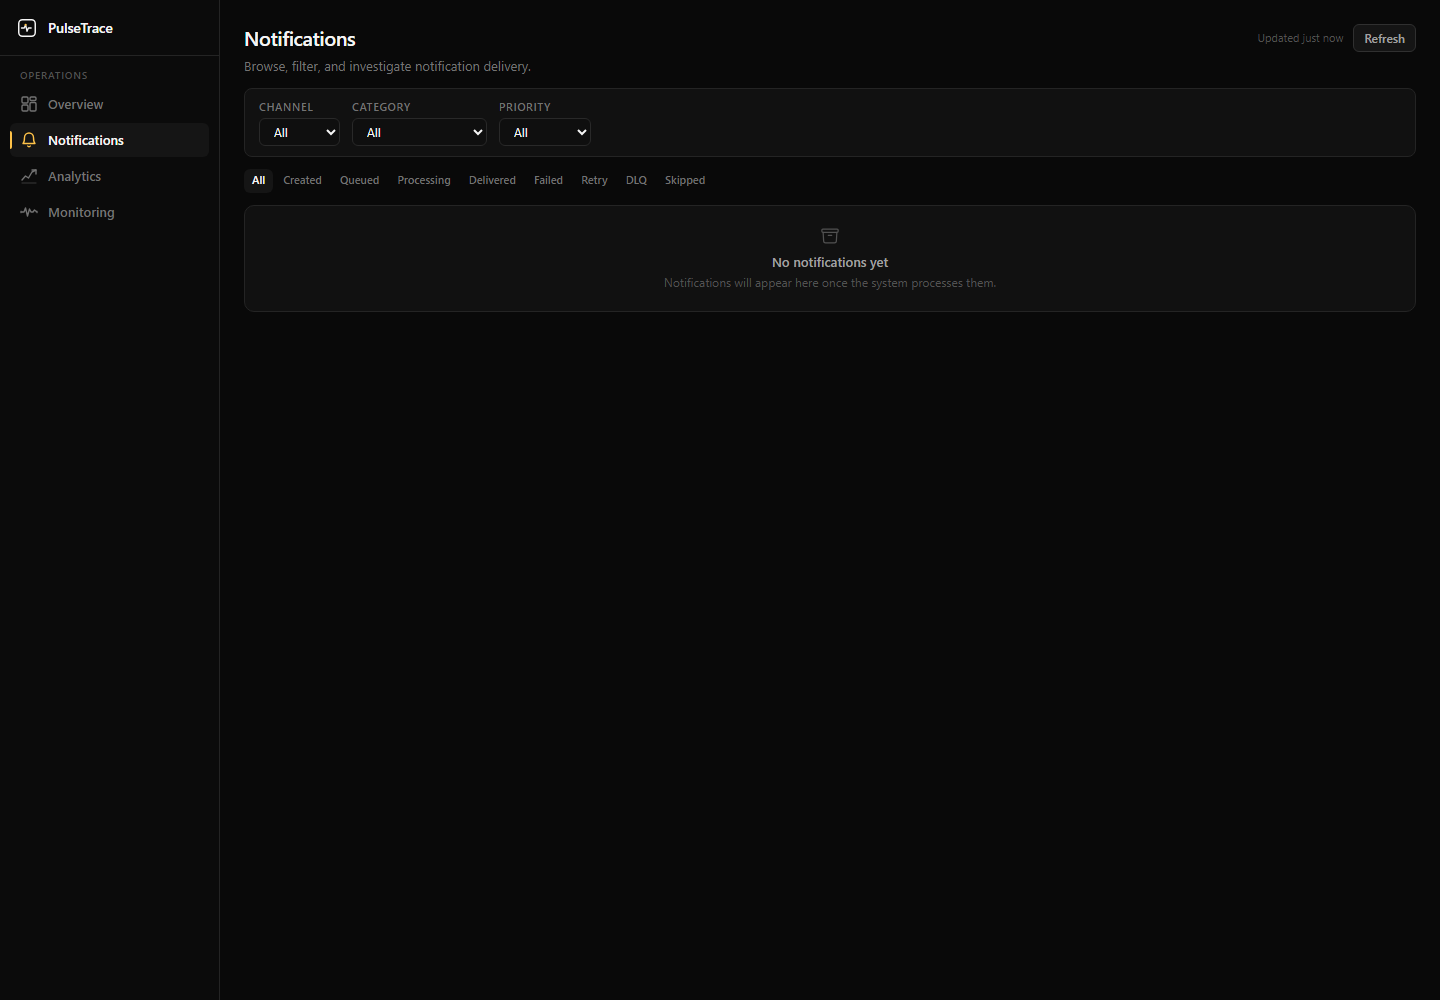
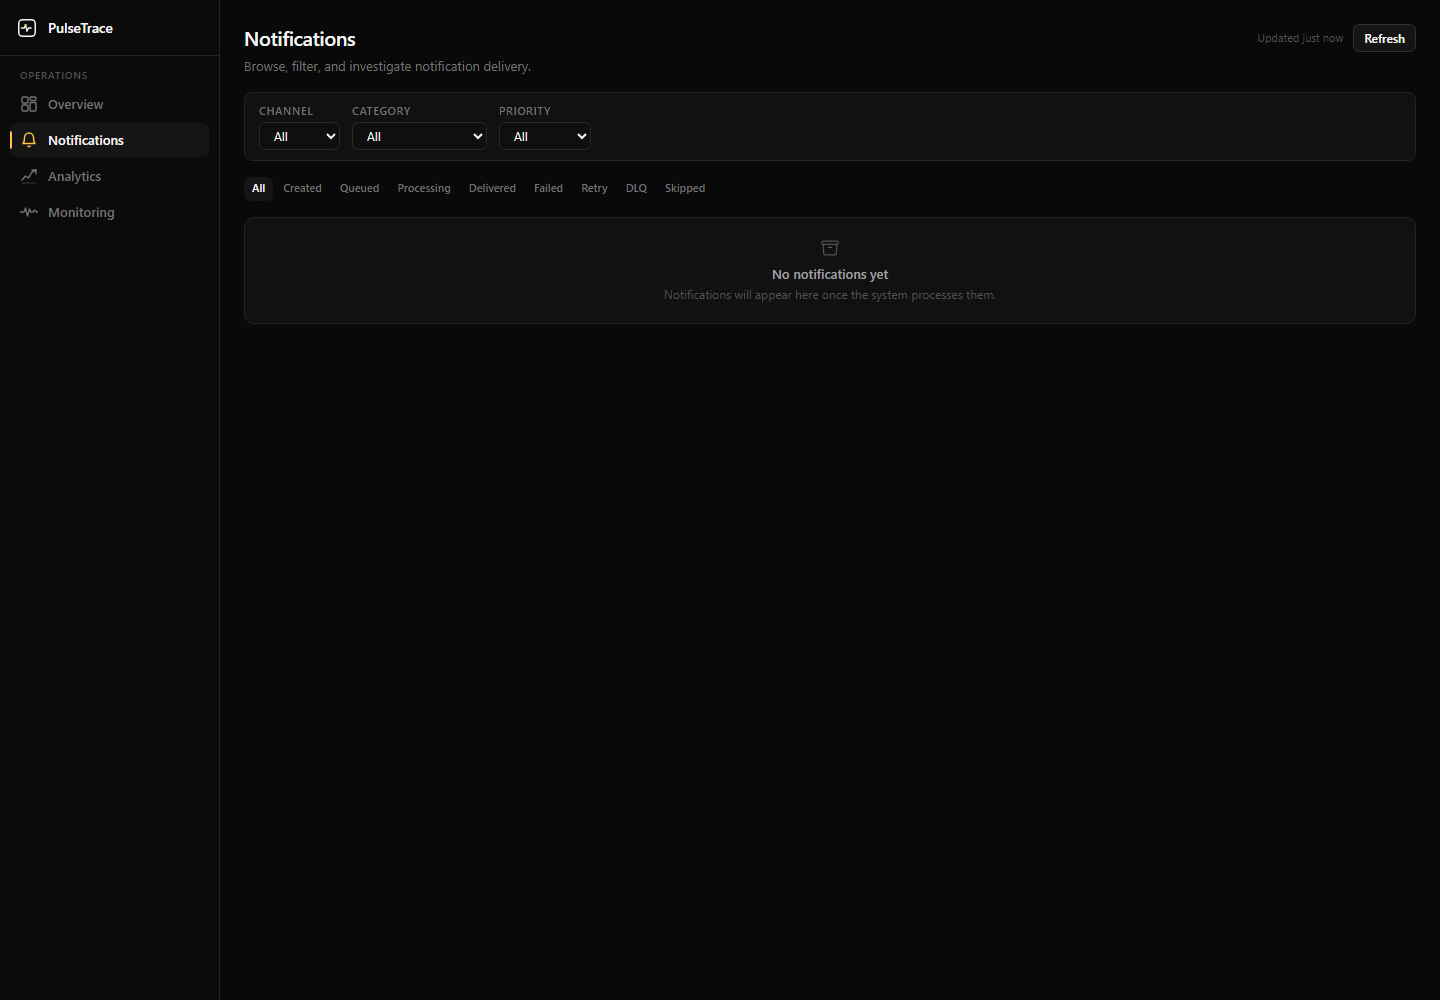
improved the dashboard UI and updated screenshots

Changed region(s): [[0.1875, 0.093, 0.5, 0.217], [0.4688, 0.217, 0.6875, 0.31], [0.9375, 0.031, 0.9688, 0.062]]

diff --git a/apps/dashboard/src/pages/NotificationsPage.tsx b/apps/dashboard/src/pages/NotificationsPage.tsx
@@ -161,7 +161,7 @@ function NotificationsTable({
   return (
     <table className="w-full text-[13px]">
       <caption className="sr-only">Notifications</caption>
-      <thead className="border-b border-line">
+      <thead className="bg-surface border-b border-line">
         <tr>
           <SortHeader field="status" label="Status" sort={sort} order={order} onSort={onSort} />
           <SortHeader field="channel" label="Channel" sort={sort} order={order} onSort={onSort} />
@@ -323,7 +323,7 @@ export function NotificationsPage() {
   const pagination = data?.pagination;
 
   return (
-    <div className="space-y-3">
+    <div className="space-y-4">
       <PageHeader
         title="Notifications"
         description="Browse, filter, and investigate notification delivery."

diff --git a/apps/dashboard/src/components/ui/Button.tsx b/apps/dashboard/src/components/ui/Button.tsx
@@ -11,7 +11,7 @@ interface ButtonProps extends ButtonHTMLAttributes<HTMLButtonElement> {
 
 const VARIANTS: Record<ButtonVariant, string> = {
   primary: 'bg-primary text-canvas font-semibold hover:bg-primary-hover',
-  secondary: 'bg-elevated border border-line-strong text-ink-secondary hover:text-ink hover:border-ink-faint hover:bg-hover-surface',
+  secondary: 'bg-elevated border border-line-strong text-ink hover:border-ink-faint hover:bg-hover-surface',
   danger: 'bg-error text-canvas font-semibold hover:brightness-95',
 };
 

diff --git a/apps/dashboard/src/pages/AnalyticsPage.tsx b/apps/dashboard/src/pages/AnalyticsPage.tsx
@@ -51,6 +51,7 @@ function useNow(intervalMs = 5_000): number {
 
 function formatRelativeTime(time: number | string, now: number): string {
   const ts = typeof time === 'string' ? new Date(time).getTime() : time;
+  if (!Number.isFinite(ts)) return '—';
   const diffMs = Math.max(0, now - ts);
   const s = Math.floor(diffMs / 1000);
   if (s < 5) return 'just now';

diff --git a/apps/dashboard/src/pages/MonitoringPage.tsx b/apps/dashboard/src/pages/MonitoringPage.tsx
@@ -42,6 +42,7 @@ function useNow(intervalMs = 5_000): number {
 
 function formatRelativeTime(time: number | string, now: number): string {
   const ts = typeof time === 'string' ? new Date(time).getTime() : time;
+  if (!Number.isFinite(ts)) return '—';
   const diffMs = Math.max(0, now - ts);
   const s = Math.floor(diffMs / 1000);
   if (s < 5) return 'just now';

diff --git a/apps/dashboard/src/pages/OverviewPage.tsx b/apps/dashboard/src/pages/OverviewPage.tsx
@@ -66,6 +66,7 @@ function useNow(intervalMs = 5_000): number {
 
 function formatRelativeTime(time: number | string, now: number): string {
   const ts = typeof time === 'string' ? new Date(time).getTime() : time;
+  if (!Number.isFinite(ts)) return '—';
   const diffMs = Math.max(0, now - ts);
   const s = Math.floor(diffMs / 1000);
   if (s < 5) return 'just now';
